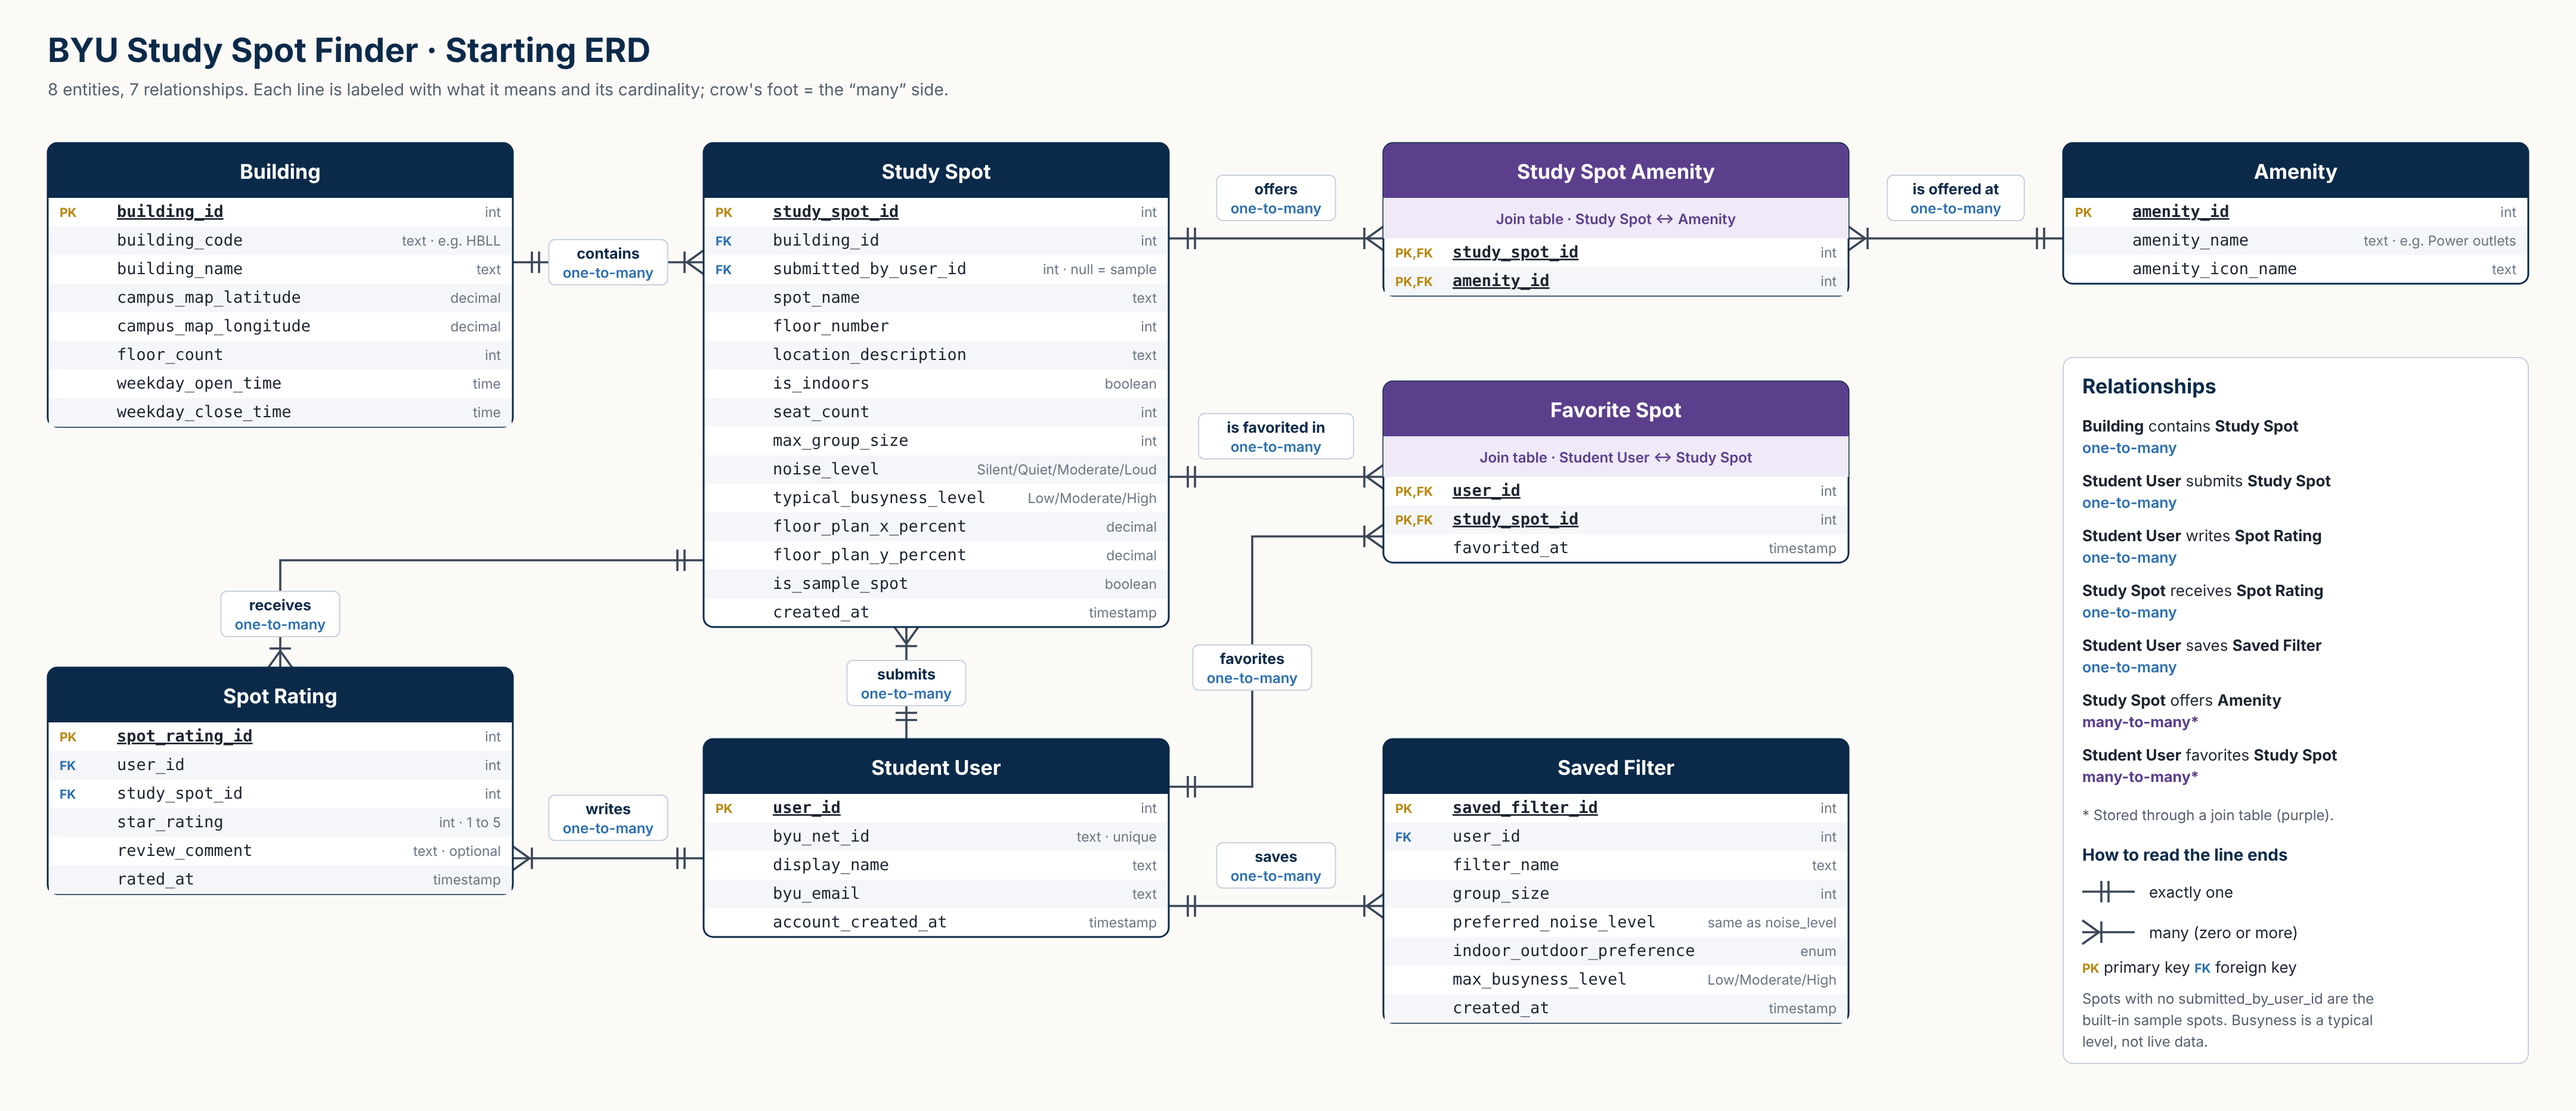
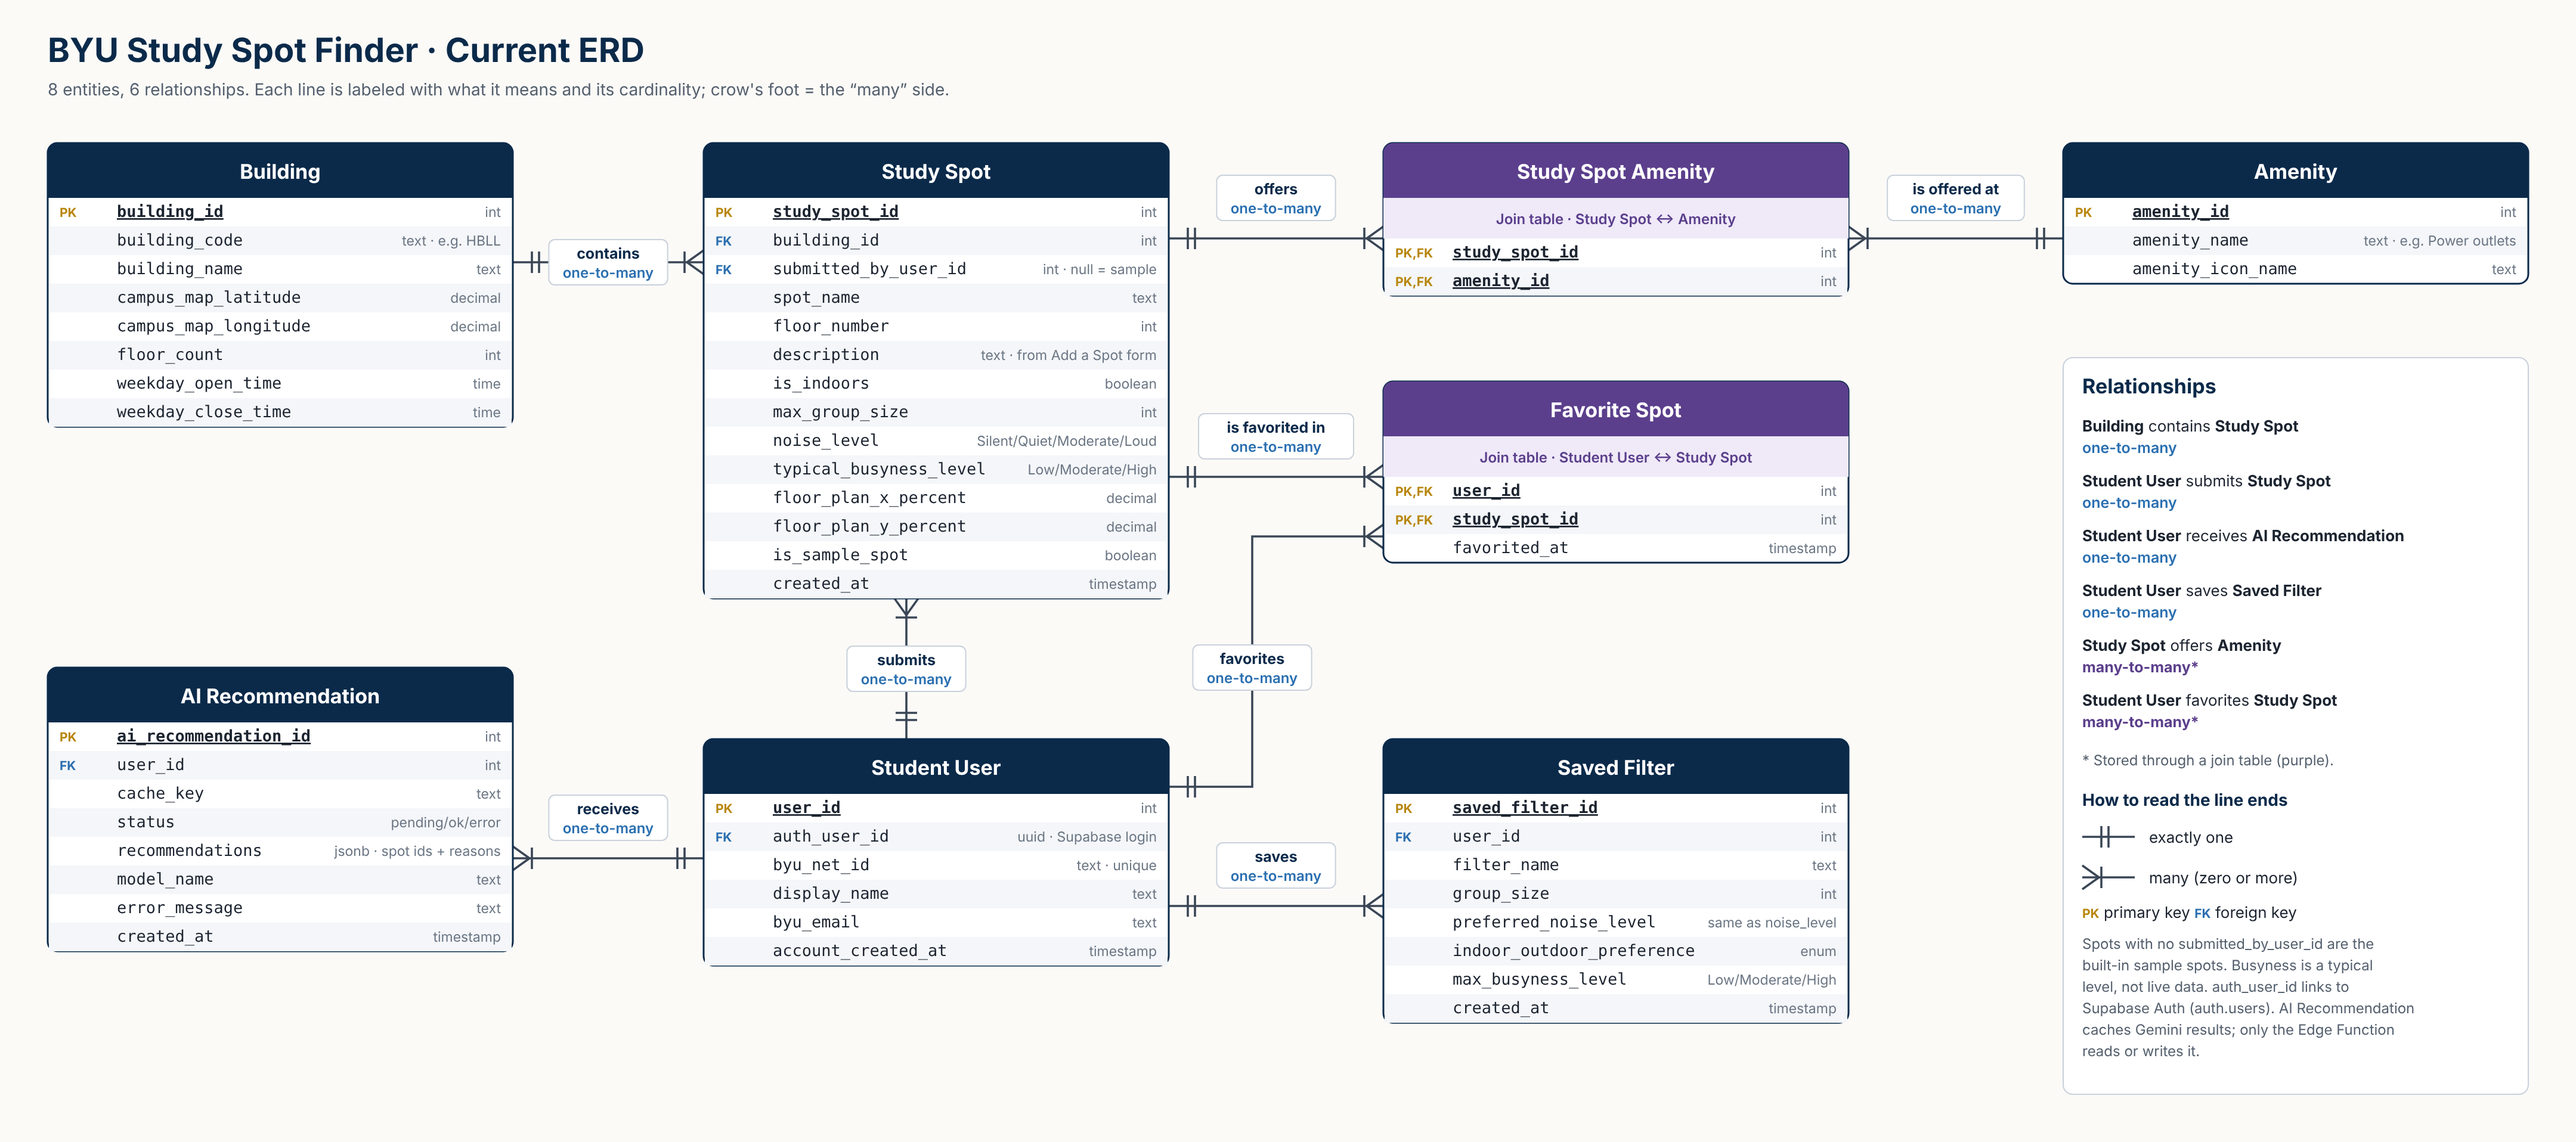
updaated ERD and ReadMe to reflect changes made in the past week

diff --git a/docs/erd/build_erd.py b/docs/erd/build_erd.py
@@ -81,9 +81,8 @@ parts.append(entity("spot", "Study Spot", COL[1], T, [
     ("FK", "submitted_by_user_id", "int · null = sample", ""),
     ("", "spot_name", "text", ""),
     ("", "floor_number", "int", ""),
-    ("", "location_description", "text", ""),
+    ("", "description", "text · from Add a Spot form", ""),
     ("", "is_indoors", "boolean", ""),
-    ("", "seat_count", "int", ""),
     ("", "max_group_size", "int", ""),
     ("", "noise_level", "Silent/Quiet/Moderate/Loud", ""),
     ("", "typical_busyness_level", "Low/Moderate/High", ""),
@@ -94,18 +93,21 @@ parts.append(entity("spot", "Study Spot", COL[1], T, [
 ]))
 parts.append(entity("user", "Student User", COL[1], 620, [
     ("PK", "user_id", "int", ""),
+    ("FK", "auth_user_id", "uuid · Supabase login", ""),
     ("", "byu_net_id", "text · unique", ""),
     ("", "display_name", "text", ""),
     ("", "byu_email", "text", ""),
     ("", "account_created_at", "timestamp", ""),
 ]))
-parts.append(entity("rating", "Spot Rating", COL[0], 560, [
-    ("PK", "spot_rating_id", "int", ""),
+parts.append(entity("ai", "AI Recommendation", COL[0], 560, [
+    ("PK", "ai_recommendation_id", "int", ""),
     ("FK", "user_id", "int", ""),
-    ("FK", "study_spot_id", "int", ""),
-    ("", "star_rating", "int · 1 to 5", ""),
-    ("", "review_comment", "text · optional", ""),
-    ("", "rated_at", "timestamp", ""),
+    ("", "cache_key", "text", ""),
+    ("", "status", "pending/ok/error", ""),
+    ("", "recommendations", "jsonb · spot ids + reasons", ""),
+    ("", "model_name", "text", ""),
+    ("", "error_message", "text", ""),
+    ("", "created_at", "timestamp", ""),
 ]))
 parts.append(entity("ssa", "Study Spot Amenity", COL[2], T, [
     ("PK,FK", "study_spot_id", "int", ""),
@@ -145,9 +147,7 @@ rels = [
     rel([(R("user"), 660), (R("user") + 70, 660), (R("user") + 70, 450), (L("fav"), 450)], False, True,
         "favorites", "one-to-many", R("user") + 70, 560),
     rel([(R("user"), 760), (L("filter"), 760)], False, True, "saves", "one-to-many", mid(R("user"), L("filter")), 760 - 34),
-    rel([(L("user"), 720), (R("rating"), 720)], False, True, "writes", "one-to-many", mid(R("rating"), L("user")), 720 - 34),
-    rel([(L("spot"), 470), (L("bld") + W / 2, 470), (L("bld") + W / 2, E["rating"]["y"])], False, True,
-        "receives", "one-to-many", L("bld") + W / 2, 515),
+    rel([(L("user"), 720), (R("ai"), 720)], False, True, "receives", "one-to-many", mid(R("ai"), L("user")), 720 - 34),
 ]
 
 # Relationship key panel
@@ -155,13 +155,12 @@ kx, ky = COL[3], 300
 key_rows = [
     ("Building", "contains", "Study Spot", "one-to-many"),
     ("Student User", "submits", "Study Spot", "one-to-many"),
-    ("Student User", "writes", "Spot Rating", "one-to-many"),
-    ("Study Spot", "receives", "Spot Rating", "one-to-many"),
+    ("Student User", "receives", "AI Recommendation", "one-to-many"),
     ("Student User", "saves", "Saved Filter", "one-to-many"),
     ("Study Spot", "offers", "Amenity", "many-to-many*"),
     ("Student User", "favorites", "Study Spot", "many-to-many*"),
 ]
-kh = 70 + len(key_rows) * 46 + 200
+kh = 70 + len(key_rows) * 46 + 272
 key = [f'<rect x="{kx}" y="{ky}" width="{W}" height="{kh}" rx="8" class="keybox"/>',
        f'<text x="{kx+16}" y="{ky+30}" class="keyh">Relationships</text>']
 for i, (a, v, b, c) in enumerate(key_rows):
@@ -183,7 +182,10 @@ key.append(f'<text x="{kx+16}" y="{y}" class="kt"><tspan class="key pk">PK</tspa
 y += 26
 key.append(f'<text x="{kx+16}" y="{y}" class="kn">Spots with no submitted_by_user_id are the</text>')
 key.append(f'<text x="{kx+16}" y="{y+18}" class="kn">built-in sample spots. Busyness is a typical</text>')
-key.append(f'<text x="{kx+16}" y="{y+36}" class="kn">level, not live data.</text>')
+key.append(f'<text x="{kx+16}" y="{y+36}" class="kn">level, not live data. auth_user_id links to</text>')
+key.append(f'<text x="{kx+16}" y="{y+54}" class="kn">Supabase Auth (auth.users). AI Recommendation</text>')
+key.append(f'<text x="{kx+16}" y="{y+72}" class="kn">caches Gemini results; only the Edge Function</text>')
+key.append(f'<text x="{kx+16}" y="{y+90}" class="kn">reads or writes it.</text>')
 
 WIDTH, HEIGHT = COL[3] + W + 40, max(ky + kh, 860) + 40
 css = """
@@ -214,8 +216,8 @@ text{font-family:Inter,'Segoe UI',Helvetica,Arial,sans-serif}
 svg = f"""<svg xmlns="http://www.w3.org/2000/svg" width="{WIDTH}" height="{HEIGHT}" viewBox="0 0 {WIDTH} {HEIGHT}">
 <style>{css}</style>
 <rect width="100%" height="100%" class="bg"/>
-<text x="40" y="52" class="h1">BYU Study Spot Finder · Starting ERD</text>
-<text x="40" y="80" class="sub">8 entities, 7 relationships. Each line is labeled with what it means and its cardinality; crow's foot = the “many” side.</text>
+<text x="40" y="52" class="h1">BYU Study Spot Finder · Current ERD</text>
+<text x="40" y="80" class="sub">8 entities, 6 relationships. Each line is labeled with what it means and its cardinality; crow's foot = the “many” side.</text>
 {chr(10).join(rels)}
 {chr(10).join(parts)}
 {chr(10).join(key)}

diff --git a/README.md b/README.md
@@ -2,35 +2,58 @@ BYU STUDY SPOT FINDER
 
 App Summary:
 
-Many BYU students struggle to find good places to study, especially during busy times when popular spots like the library are too crowded. Students often waste time walking around campus trying to find a spot that fits their needs, whether that's a quiet place, somewhere with outlets, an area for group studying, or some combination of the three. Our app solves this problem by helping BYU students quickly find study spots that match their preferences. Students can search for locations in different buildings and filter them based on features such as noise level, busyness, group size, and available amenities. Students can also add new locations that other students might not know about, browse spots on a campus map, and save their favorite study spots to an account. Ultimately, our goal is to help BYU students spend less time looking for somewhere to study and more time actually getting their work done.
+Many BYU students struggle to find good places to study, especially during busy times when popular spots like the library are too crowded. Students often waste time walking around campus trying to find a spot that fits their needs, whether that's a quiet place, somewhere with outlets, an area for group studying, or some combination of the three. Our app solves this problem by helping BYU students quickly find study spots that match their preferences. Students can search for locations in different buildings and filter them based on features such as noise level, busyness, group size, and available amenities. Students can also add new locations that other students might not know about, browse spots on a campus map, save their favorite study spots to an account, and get AI suggestions for new spots based on the ones they already like. Ultimately, our goal is to help BYU students spend less time looking for somewhere to study and more time actually getting their work done.
+
+Features:
+- Get Started: pick what you want in a study spot (quiet, outlets, food allowed, indoors or outdoors, and more) and see the spots that match.
+- Campus Map: an illustrated map of 20 campus buildings. Click a building to see its floors and where each study spot is.
+- Study Spot List: every spot, with filters for group size, features, building, and indoors or outdoors, sorted by building or by least busy.
+- Accounts: students create an account with their BYU Net ID and log in. Their name shows in the top corner, with a menu to log out.
+- Favorites: logged-in students tap the ★ on any spot to save it to their account.
+- Add a Spot: logged-in students can add a spot they know about (building, floor, location on the floor plan, group size, how busy it usually is, and features). Everyone sees spots added by other students, and only the person who added a spot can delete it.
+- ✨ Suggest spots: a button in the bottom-right corner uses AI (Google Gemini) to suggest 3–5 spots based on a student's favorites, each with a short reason.
 
 ERD:
 
-<img width="1214" height="521" alt="Screenshot 2026-10-10 at 11 34 01 PM" src="https://github.com/user-attachments/assets/a1dee7a7-4f22-41bd-87a3-e18275927548" />
+![ERD](docs/erd/erd.png)
 
+Note: this diagram is from October. Since then the database also has an ai_recommendation table (saved AI suggestions) and an auth_user_id column on student_user (links each student to their login). The seat_count and location_description columns were removed from study_spot. The app no longer uses spot ratings.
 
 Tech Stack:
 
 Frontend: HTML/CSS/JS
-Backend: Supabase
-Database: Supabase
+Backend: Supabase (Auth for accounts, an Edge Function for AI suggestions)
+Database: Supabase (PostgreSQL)
+AI: Google Gemini (free tier), called from the Supabase Edge Function
 
-We chose HTML/CSS/JS for our frontend because we worked primarily with Claude during our design sprint. It built a user-friendly frontend with HTML so we decided to continue on that route. We chose Supabase for the backend and database as we are most familiar with that service. We believe it will be easiest to have the same service provide both. We will have ChatGPT and Claude to help connect each layer.
+We chose HTML/CSS/JS for our frontend because we worked primarily with Claude during our design sprint. It built a user-friendly frontend with HTML so we decided to continue on that route. We chose Supabase for the backend and database as we are most familiar with that service. We believe it will be easiest to have the same service provide both. Supabase also handles our accounts (Supabase Auth) and runs the small server function that talks to Gemini, so the Gemini key is never in the browser. We used ChatGPT and Claude to help connect each layer.
 
 How to Get It Running:
 - Open our team's GitHub repository using the provided link.
 - Download the project files or clone the repository to your computer.
 - Open the project folder in Visual Studio Code.
-- Make sure the project is connected to Supabase using the project's Supabase URL and publishable key.
-- Start a local web server using VS Code's Live Server extension by clicking “Go Live” and open the website in a browser.
-- The website should display the available BYU study spots and allow users to interact with the Favorites button.
+- The Supabase URL and publishable key are already filled in at prototype/js/supabase-config.js.
+- Open prototype/index.html and start a local web server using VS Code's Live Server extension by clicking “Go Live”. The website opens in your browser.
+- The website should open on the Get Started page. The Map, List, and Favorites pages all work without logging in. To save favorites or add spots, click Log in in the top-right corner and create an account.
+- Database setup (only the database owner does this once): every SQL file in supabase/migrations needs to be run in Supabase's SQL Editor, and the Suggest spots button needs its Edge Function deployed with a GEMINI_API_KEY secret. Step-by-step instructions are in prototype/README.md.
 
 Verifying the Vertical Slice:
 - Open the BYU Study Spot Finder website.
-- Find a study spot and click the Favorites button next to it.
-- The button should change appearance to indicate that the study spot has been favorited.
-- The app sends this information to Supabase, where the favorite is saved in the Favorite_Spot table with the user's ID and the study spot's ID.
-- Refresh the webpage and check that the heart is still marked as favorited.
-- Click the Favorites button again to remove the study spot from your favorites.
+- Click Log in in the top-right corner, then Create an account. Enter your name, BYU Net ID, and a password.
+- Supabase emails a confirmation link to your BYU email. Click it, then log in. Your name should appear in the top-right corner.
+- Find a study spot and click the ★ (favorite) button on it.
+- The star should fill in to show that the study spot has been favorited.
+- The app sends this information to Supabase, where the favorite is saved in the favorite_spot table with your student ID and the study spot's ID.
+- Refresh the webpage and check that the star is still filled in and the spot is listed on the Favorites page.
+- Click the star again to remove the study spot from your favorites.
 - Refresh the page again to verify that the study spot is no longer favorited.
-- This demonstrates that the frontend, backend, and database are all communicating successfully, and that changes are permanently saved rather    than just temporarily stored in the browser.
+- This demonstrates that the frontend, backend, and database are all communicating successfully, and that changes are permanently saved to each student's account rather than just temporarily stored in the browser.
+
+Recent Updates (November 3–10):
+- Accounts: added Create account and Log in pages connected to Supabase Auth. New accounts are saved to the student_user table automatically. The Log in button sits in the top bar, so the rest of the site works without an account.
+- Favorites are now saved per student account instead of for sample users picked from a dropdown.
+- Add a Spot saves new spots to Supabase so the whole team sees them, and now includes a "how busy it usually is" picker.
+- Added the ✨ Suggest spots button with AI recommendations from Google Gemini.
+- Redrew the Campus Map from real campus building outlines, added more buildings (including the Arts Building, Life Sciences Building, and Engineering Building), and used each building's outline for its floor views.
+- UI updates: a ☰ menu, the same filters on every page, and a matching header on every page.
+- Removed the Saved filters tab from the Favorites page and the star ratings on study spots.

diff --git a/prototype/README.md b/prototype/README.md
@@ -1,6 +1,6 @@
 # BYU Study Spot Finder — front-end prototype
 
-Open `index.html` in any browser. No server, build step, or install needed.
+Serve this folder with a local web server (VS Code's Live Server "Go Live", or `python3 -m http.server 8000` from this folder) and open it in a browser. No build step or install needed.
 
 Favorite spots and spots you add on the Add a Spot page are saved in the team's Supabase database for the logged-in student, so everyone sees the added spots. Everything else is still saved only in your own browser.
 
@@ -41,7 +41,7 @@ Favorite spots and spots you add on the Add a Spot page are saved in the team's 
 - Only the person who added a spot can delete it. Sample spots and other students' spots have no delete button.
 - The Campus Map places each building from its latitude/longitude in `data.js`; shapes are simplified. Buildings without spots are drawn dashed and invite people to add one.
 - The List sorts by Building or Least busy first (A–Z was removed).
-- User-added spots get a default busyness of "Moderate" because the form has no busyness field.
+- Add a Spot asks how busy the spot usually is and saves it to `study_spot.typical_busyness_level`.
 - Group size is shown as a large picker above the Map, Floor View, and List, and at the top of the Filter Panel.
 - To reset all user data, clear the site's localStorage (keys start with `byuStudySpots.`).
 
